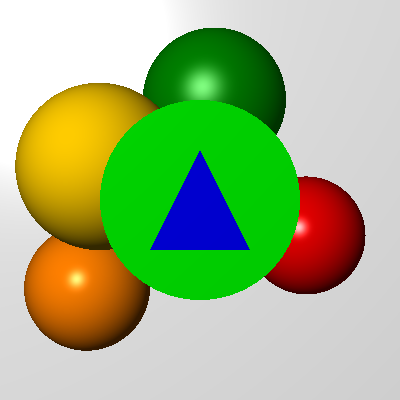
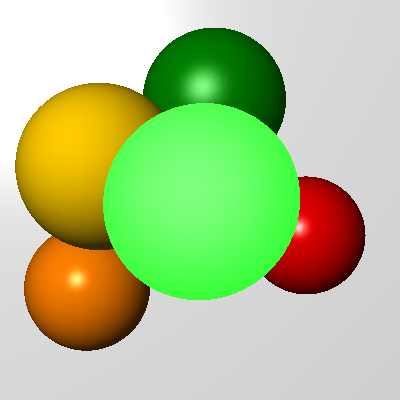
patch specular problems on flat shapes

Changed region(s): [[0.24, 0.24, 0.75, 0.75]]

diff --git a/raytracerframework_cpp/triangle.cpp b/raytracerframework_cpp/triangle.cpp
@@ -22,20 +22,20 @@ Hit Triangle::intersect(const Ray &ray)
 	Vector intersect = TransformedRay.O + t * TransformedRay.D;
 
 	//check if inside the triangle
-	Vector e1 = v1Offset-v2Offset;
-	Vector e2 = v2Offset-v3Offset;
-	Vector e3 = v3Offset-v1Offset;
+	Vector e1 = v2Offset-v1Offset;
+	Vector e2 = v3Offset-v2Offset;
+	Vector e3 = v1Offset-v3Offset;
 
 	Vector C0 = intersect - v1Offset;
 	Vector C1 = intersect - v2Offset;
 	Vector C2 = intersect - v3Offset;
 
-	if (N.dot(e1.cross(C0)) <= 0  ||
+	if (N.dot(e1.cross(C0)) <= 0 ||
     	N.dot(e2.cross(C1)) <= 0 ||
     	N.dot(e3.cross(C2)) <= 0)
 		return Hit::NO_HIT();
 
-
+	N = removeTransformation(N);
 	return Hit(t, N);
 }
 

diff --git a/raytracerframework_cpp/plane.cpp b/raytracerframework_cpp/plane.cpp
@@ -20,8 +20,7 @@ Hit Plane::intersect(const Ray &ray)
 
 	if (t < 0) return Hit::NO_HIT();
 
-	Vector intersect = TransformedRay.O + t * TransformedRay.D;
-
+	N = removeTransformation(N);
 	return Hit(t,N);
 }
 

diff --git a/raytracerframework_cpp/disc.cpp b/raytracerframework_cpp/disc.cpp
@@ -25,6 +25,7 @@ Hit Disc::intersect(const Ray &ray)
 
 	if (distToCenter > r) return Hit::NO_HIT();
 
+	N = removeTransformation(N);
 	return Hit(t,N);
 }
 
